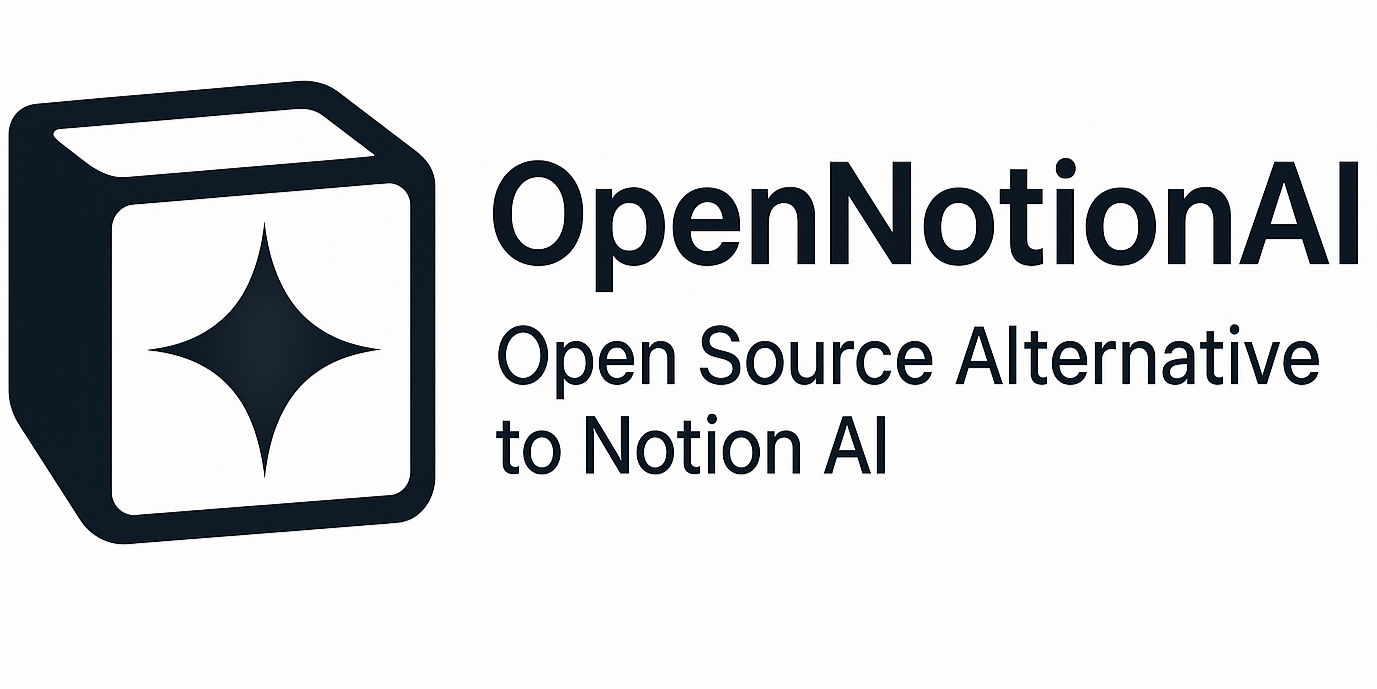
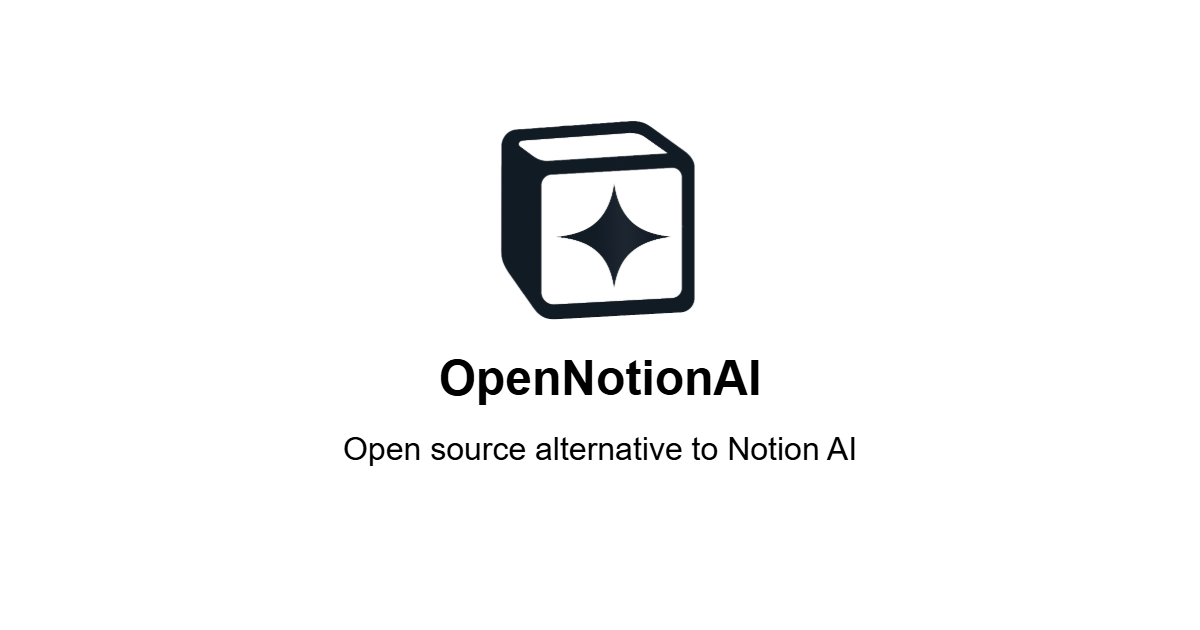
edited opengraph image once more with ogimagmaker.com

Changed region(s): [[0.0, 0.1206, 0.9867, 0.8143]]

diff --git a/app/layout.tsx b/app/layout.tsx
@@ -48,8 +48,8 @@ export const metadata: Metadata = {
     images: [
       {
         url: '/opengraph.png', // Example: replace with your actual image path
-        width: 1377,
-        height: 689,
+        width: 1200,
+        height: 630,
         alt: 'OpenNotionAI Logo and promotional banner',
       },
     ],
